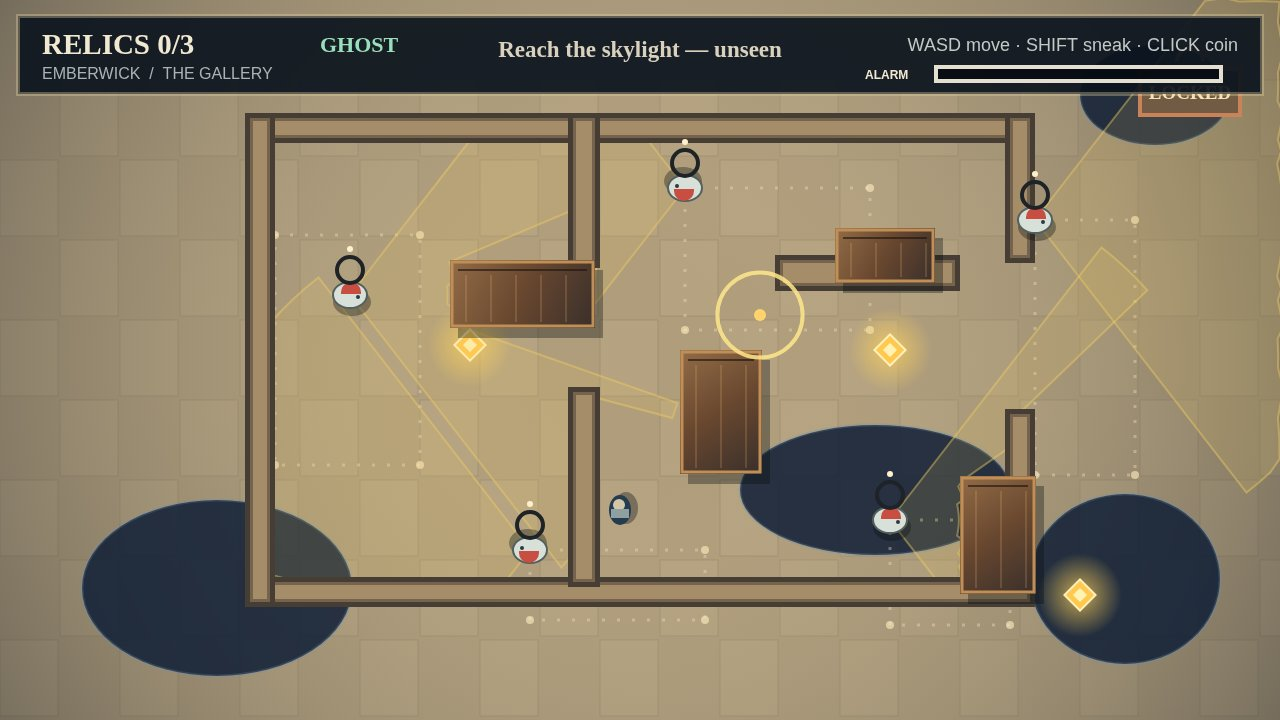
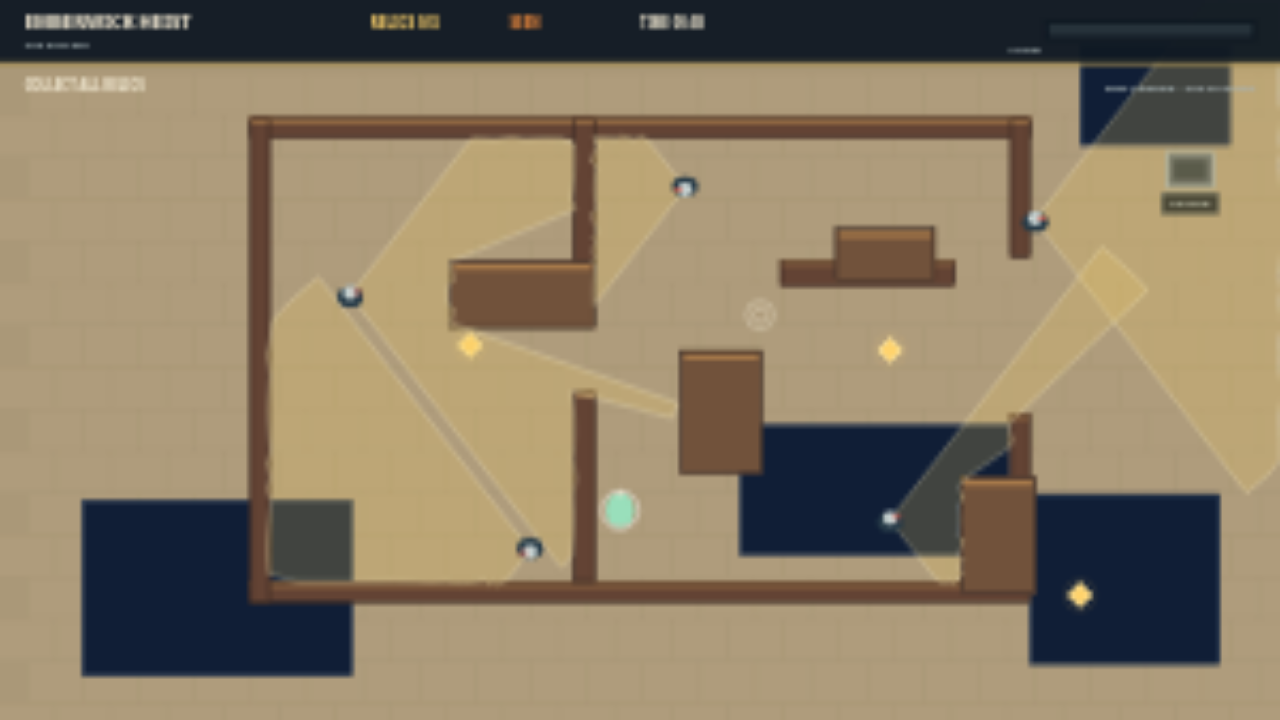
EMBERWICK HEIST round 3: exit visible, cones + player legible

diff --git a/game/src/render.js b/game/src/render.js
@@ -1,24 +1,44 @@
-import {W,H,C,T} from './config.js';
-import {conePoints} from './vision.js';
-const rect=(c,r,color,stroke=null,lw=1)=>{c.fillStyle=color;c.fillRect(r.x,r.y,r.w,r.h);if(stroke){c.strokeStyle=stroke;c.lineWidth=lw;c.strokeRect(r.x,r.y,r.w,r.h)}};
-function floor(c,w){c.fillStyle=C.floor;c.fillRect(0,0,W,H);for(let y=80;y<H;y+=80)for(let x=(y/80%2)*60;x<W;x+=120){c.fillStyle='rgba(239,218,178,.10)';c.fillRect(x,y,58,76);c.strokeStyle='rgba(45,38,31,.12)';c.strokeRect(x,y,58,76)}
-const vignette=c.createRadialGradient(640,360,100,640,360,820);vignette.addColorStop(0,'rgba(255,233,183,.06)');vignette.addColorStop(1,'rgba(12,20,33,.46)');c.fillStyle=vignette;c.fillRect(0,0,W,H);
-for(const s of w.shadows){c.fillStyle='rgba(12,27,53,.84)';c.beginPath();c.ellipse(s.x+s.w/2,s.y+s.h/2,s.w/2,s.h/2,0,0,Math.PI*2);c.fill();c.strokeStyle='rgba(106,146,183,.24)';c.lineWidth=3;c.stroke()}}
-function furniture(c,w){for(const r of w.walls){c.fillStyle='#463d34';c.fillRect(r.x-5,r.y-5,r.w+10,r.h+10);c.fillStyle='#75634d';c.fillRect(r.x,r.y,r.w,r.h);c.fillStyle='#a68d69';c.fillRect(r.x+3,r.y+3,Math.max(0,r.w-6),Math.max(0,r.h-6))}
-for(const r of w.cover){c.fillStyle='rgba(10,13,17,.35)';c.fillRect(r.x+8,r.y+10,r.w,r.h);const grad=c.createLinearGradient(r.x,r.y,r.x+r.w,r.y+r.h);grad.addColorStop(0,'#936c47');grad.addColorStop(.5,'#68472f');grad.addColorStop(1,'#392f2b');c.fillStyle=grad;c.fillRect(r.x,r.y,r.w,r.h);c.strokeStyle='#c08f57';c.lineWidth=3;c.strokeRect(r.x+2,r.y+2,r.w-4,r.h-4);c.strokeStyle='rgba(32,23,19,.65)';c.lineWidth=2;c.beginPath();c.moveTo(r.x+8,r.y+10);c.lineTo(r.x+r.w-8,r.y+10);c.stroke();for(let x=r.x+16;x<r.x+r.w-8;x+=25){c.strokeStyle='rgba(231,182,113,.2)';c.beginPath();c.moveTo(x,r.y+15);c.lineTo(x,r.y+r.h-6);c.stroke()}}}
-function routes(c,gs){c.save();c.setLineDash([3,12]);c.lineWidth=3;c.strokeStyle='rgba(245,230,193,.37)';for(const g of gs){c.beginPath();g.route.forEach(([x,y],i)=>i?c.lineTo(x,y):c.moveTo(x,y));c.closePath();c.stroke();for(const [x,y] of g.route){c.fillStyle='rgba(255,236,190,.62)';c.beginPath();c.arc(x,y,4,0,Math.PI*2);c.fill()}}c.restore()}
-function exitMark(c,w,state){const [x,y]=w.exit,locked=state.alert>0||w.relics.some(r=>!r.taken);c.save();c.translate(x,y);c.fillStyle=locked?'#5e4940':'#167d71';c.fillRect(-50,-23,100,46);c.strokeStyle=locked?'#c47658':'#90e3bf';c.lineWidth=4;c.strokeRect(-50,-23,100,46);c.fillStyle='#f8e8c2';c.font='bold 19px Georgia';c.textAlign='center';c.fillText(locked?'LOCKED':'SKYLIGHT',0,7);c.beginPath();c.arc(0,-31,13,Math.PI,Math.PI*2);c.stroke();c.restore()}
-function relic(c,r){if(r.taken)return;c.save();c.translate(r.x,r.y);const glow=c.createRadialGradient(0,0,2,0,0,42);glow.addColorStop(0,'rgba(255,210,92,.7)');glow.addColorStop(1,'rgba(255,210,92,0)');c.fillStyle=glow;c.beginPath();c.arc(0,0,42,0,Math.PI*2);c.fill();c.rotate(Math.PI/4);c.fillStyle='#ffc950';c.fillRect(-11,-11,22,22);c.fillStyle='#fff2b5';c.fillRect(-5,-5,10,10);c.strokeStyle='#fff1bd';c.lineWidth=2;c.strokeRect(-11,-11,22,22);c.restore()}
-function cones(c,gs,w){for(const g of gs){const pts=conePoints(g,w);c.beginPath();pts.forEach((p,i)=>i?c.lineTo(p.x,p.y):c.moveTo(p.x,p.y));c.closePath();const col=g.suspicion>.75?C.hot:g.suspicion>.35?C.warn:C.calm;c.fillStyle=col+(g.suspicion>.35?'33':'24');c.fill();c.strokeStyle=col+'70';c.lineWidth=2;c.stroke()}}
-function guard(c,g){c.save();c.translate(g.x,g.y);c.rotate(g.angle);c.fillStyle='rgba(12,16,18,.35)';c.beginPath();c.ellipse(2,7,19,14,0,0,Math.PI*2);c.fill();c.fillStyle='#d7e0d9';c.beginPath();c.ellipse(0,0,17,13,0,0,Math.PI*2);c.fill();c.strokeStyle='#53605f';c.lineWidth=2;c.stroke();c.fillStyle='#c94e42';c.beginPath();c.arc(1,-3,10,Math.PI,Math.PI*2);c.lineTo(11,-1);c.lineTo(-9,-1);c.fill();c.fillStyle='#293a45';c.beginPath();c.arc(8,2,2,0,Math.PI*2);c.fill();c.restore();
-c.save();c.strokeStyle='#1d2327';c.lineWidth=4;c.beginPath();c.arc(g.x,g.y-25,13,0,Math.PI*2);c.stroke();c.strokeStyle=g.suspicion>.75?C.hot:g.suspicion>.35?C.warn:C.mint;c.lineWidth=4;c.beginPath();c.arc(g.x,g.y-25,13,-Math.PI/2,-Math.PI/2+Math.PI*2*g.suspicion);c.stroke();c.restore();
-if(g.pause>0){c.fillStyle='#fff1cd';c.beginPath();c.arc(g.x,g.y-46,3,0,Math.PI*2);c.fill()}}
-function player(c,p,cover){c.save();c.globalAlpha=cover.alcove?0:cover.hidden?.42:1;c.translate(p.x,p.y);c.rotate(p.face);c.fillStyle='rgba(7,12,19,.35)';c.beginPath();c.ellipse(2,6,p.sneak?13:16,p.sneak?8:12,0,0,Math.PI*2);c.fill();c.fillStyle='#243b50';c.beginPath();c.ellipse(0,0,p.sneak?12:15,p.sneak?8:11,0,0,Math.PI*2);c.fill();c.fillStyle='#d4c7a9';c.beginPath();c.arc(5,-1,6,0,Math.PI*2);c.fill();c.fillStyle='#8ea0a2';c.fillRect(-8,-9,9,18);c.restore()}
-function noise(c,p){if(p.noise>0){c.strokeStyle='rgba(246,216,140,.65)';c.lineWidth=3;c.beginPath();c.arc(p.x,p.y,23+(1-p.noise)*100,0,Math.PI*2);c.stroke();c.strokeStyle='rgba(246,216,140,.25)';c.beginPath();c.arc(p.x,p.y,55+(1-p.noise)*140,0,Math.PI*2);c.stroke()}
-if(p.coin){c.strokeStyle='rgba(255,231,139,.85)';c.lineWidth=4;c.beginPath();c.arc(p.coin.x,p.coin.y,21+(4-p.coin.life)*24,0,Math.PI*2);c.stroke();c.fillStyle=C.gold;c.beginPath();c.arc(p.coin.x,p.coin.y,6,0,Math.PI*2);c.fill()}}
-function hud(c,world,p,state){c.fillStyle='rgba(11,19,29,.92)';c.fillRect(18,16,W-36,78);c.strokeStyle='rgba(232,211,165,.35)';c.strokeRect(18,16,W-36,78);c.fillStyle=C.cream;c.textAlign='left';c.font='bold 29px Georgia';c.fillText(`RELICS ${world.relics.filter(r=>r.taken).length}/3`,42,54);c.fillStyle=p.seen?'#ff9a77':C.mint;c.font='bold 22px Georgia';c.fillText(p.seen?'SEEN':'GHOST',320,52);c.fillStyle=C.muted;c.font='16px Arial';c.fillText(`EMBERWICK  /  ${world.name}`,42,79);
-c.fillStyle='#d9d1be';c.textAlign='center';c.font='bold 23px Georgia';c.fillText('Reach the skylight — unseen',640,57);c.fillStyle='#c3c9c6';c.textAlign='right';c.font='18px Arial';c.fillText('WASD move · SHIFT sneak · CLICK coin',1238,51);
-c.fillStyle='rgba(5,10,16,.8)';c.fillRect(936,67,285,14);c.fillStyle=state.alarm>.65?'#e94f45':state.alarm>.28?'#ee9842':'#70b89b';c.fillRect(936,67,285*state.alarm,14);c.strokeStyle='#e4dfd1';c.strokeRect(936,67,285,14);c.fillStyle=C.cream;c.textAlign='left';c.font='bold 12px Arial';c.fillText(state.alert>0?`ALERT · EXIT LOCK ${state.alert.toFixed(1)}s`:'ALARM',865,79)}
-function card(c,state,p,world){if(state.won){c.fillStyle='rgba(8,15,25,.82)';c.fillRect(0,0,W,H);c.fillStyle='#f3d78d';c.textAlign='center';c.font='bold 64px Georgia';c.fillText(p.seen?'SHADOW — seen':'GHOST — unseen',640,270);c.fillStyle=C.cream;c.font='30px Georgia';c.fillText(`EMBERWICK HEIST  ·  ${world.name}`,640,326);c.font='24px Arial';c.fillText(`TIME  ${Math.floor(state.time/60)}:${String(Math.floor(state.time%60)).padStart(2,'0')}     RELICS  3/3`,640,390);c.fillStyle='#ffd36c';c.font='54px Georgia';c.fillText(p.seen?'★  ★  ☆':'★  ★  ★',640,468);c.fillStyle='#d5d4ce';c.font='19px Arial';c.fillText(state.next===undefined?'Heist complete':'Click or press ENTER to begin the next room',640,530)}if(state.alert>0){c.fillStyle='rgba(185,37,35,.18)';c.fillRect(0,94,W,H-94);c.textAlign='center';c.fillStyle='#ff5c4d';c.font='bold 25px Arial';c.fillText('ALERT — BREAK THE SIGHTLINE',640,132)}}
-export function draw(ctx,canvas,world,p,gs,state,coverState={hidden:false}){const dpr=Math.min(2,devicePixelRatio||1),scale=Math.min(innerWidth/W,innerHeight/H);canvas.width=Math.round(W*scale*dpr);canvas.height=Math.round(H*scale*dpr);canvas.style.width=`${W*scale}px`;canvas.style.height=`${H*scale}px`;canvas.style.position='absolute';canvas.style.left=`${(innerWidth-W*scale)/2}px`;canvas.style.top=`${(innerHeight-H*scale)/2}px`;ctx.setTransform(canvas.width/W,0,0,canvas.height/H,0,0);
-floor(ctx,world);routes(ctx,gs);exitMark(ctx,world,state);for(const r of world.relics)relic(ctx,r);cones(ctx,gs,world);furniture(ctx,world);noise(ctx,p);gs.forEach(g=>guard(ctx,g));player(ctx,p,coverState.hidden);hud(ctx,world,p,state);card(ctx,state,p,world)}
+import {C,W,H} from './config.js';
+import {conePoints,shadowed,covered} from './vision.js';
+
+const poly=(ctx,pts)=>{ctx.beginPath();ctx.moveTo(pts[0].x,pts[0].y);for(let i=1;i<pts.length;i++)ctx.lineTo(pts[i].x,pts[i].y);ctx.closePath()};
+const rect=(ctx,r,color)=>{ctx.fillStyle=color;ctx.fillRect(r.x,r.y,r.w,r.h)};
+const text=(ctx,value,x,y,size=14,color=C.cream,align='left',weight='600')=>{ctx.font=`${weight} ${size}px system-ui, sans-serif`;ctx.textAlign=align;ctx.textBaseline='middle';ctx.fillStyle=color;ctx.fillText(value,x,y)};
+
+export function draw(ctx,canvas,world,p,guards,state,coverState){
+  ctx.setTransform(canvas.width/W,0,0,canvas.height/H,0,0);
+  ctx.clearRect(0,0,W,H);
+  ctx.fillStyle=C.floor;ctx.fillRect(0,0,W,H);
+  ctx.globalAlpha=.18;ctx.fillStyle=C.tile;
+  for(let y=74;y<H;y+=42)for(let x=0;x<W;x+=56)ctx.fillRect(x+(Math.floor(y/42)%2)*28,y,54,40);
+  ctx.globalAlpha=1;
+
+  for(const s of world.shadows){ctx.fillStyle=C.shadow;ctx.fillRect(s.x,s.y,s.w,s.h);ctx.strokeStyle=C.shadowEdge;ctx.lineWidth=2;ctx.strokeRect(s.x+1,s.y+1,s.w-2,s.h-2)}
+  for(const r of world.walls){ctx.fillStyle=C.wood;ctx.fillRect(r.x,r.y,r.w,r.h);ctx.fillStyle=C.woodHi;ctx.fillRect(r.x,r.y,r.w,Math.min(5,r.h));ctx.strokeStyle='#392a25';ctx.lineWidth=2;ctx.strokeRect(r.x+1,r.y+1,r.w-2,r.h-2)}
+  for(const r of world.cover){ctx.fillStyle='#71523b';ctx.fillRect(r.x,r.y,r.w,r.h);ctx.fillStyle='#a6794a';ctx.fillRect(r.x+4,r.y+4,r.w-8,6);ctx.strokeStyle='#382d29';ctx.lineWidth=2;ctx.strokeRect(r.x+1,r.y+1,r.w-2,r.h-2)}
+
+  const ex=world.exit[0],ey=world.exit[1],open=world.relics.every(r=>r.taken);
+  ctx.save();ctx.translate(ex,ey);ctx.fillStyle=open?'#b9e6cd':'#59636a';ctx.fillRect(-23,-17,46,34);ctx.strokeStyle=open?'#f1e8d2':'#a8b4b6';ctx.lineWidth=3;ctx.strokeRect(-23,-17,46,34);ctx.fillStyle=open?'#263e3b':'#303b43';ctx.fillRect(-16,-10,32,20);ctx.restore();
+  ctx.font='700 10px system-ui, sans-serif';const exitLabel=open?'SKYLIGHT':'LOCKED',tw=ctx.measureText(exitLabel).width+18;ctx.fillStyle='rgba(16,25,35,.92)';ctx.fillRect(ex-tw/2,ey+23,tw,21);ctx.strokeStyle=open?'#99dfbb':'#75838a';ctx.lineWidth=1;ctx.strokeRect(ex-tw/2+.5,ey+23.5,tw-1,20);text(ctx,exitLabel,ex,ey+34,10,open?C.mint:C.muted,'center','700');
+
+  for(const r of world.relics)if(!r.taken){ctx.save();ctx.translate(r.x,r.y);ctx.rotate(Math.PI/4);ctx.fillStyle=C.gold;ctx.fillRect(-9,-9,18,18);ctx.strokeStyle='#fff0bb';ctx.lineWidth=2;ctx.strokeRect(-8,-8,16,16);ctx.restore();ctx.beginPath();ctx.arc(r.x,r.y,16,0,Math.PI*2);ctx.strokeStyle='rgba(255,211,108,.38)';ctx.lineWidth=1;ctx.stroke()}
+
+  for(const g of guards){const pts=conePoints(g,world);poly(ctx,pts);const alpha=g.mode==='alert'?.38:g.suspicion>.18?.30:.22;ctx.fillStyle=g.mode==='alert'?`rgba(239,69,69,${alpha})`:g.suspicion>.18?`rgba(241,139,61,${alpha})`:`rgba(242,206,98,${alpha})`;ctx.fill();ctx.strokeStyle='rgba(255,244,210,.5)';ctx.lineWidth=2;ctx.stroke();
+    if(g.suspicion>.08){ctx.beginPath();ctx.arc(g.x,g.y,22,-Math.PI/2,-Math.PI/2+Math.PI*2*g.suspicion);ctx.strokeStyle=g.mode==='alert'?C.hot:C.warn;ctx.lineWidth=3;ctx.stroke()}
+    ctx.save();ctx.translate(g.x,g.y);ctx.rotate(g.angle);ctx.fillStyle='#273b48';ctx.beginPath();ctx.ellipse(0,2,13,10,0,0,Math.PI*2);ctx.fill();ctx.fillStyle=C.uniform;ctx.beginPath();ctx.arc(0,-2,7,0,Math.PI*2);ctx.fill();ctx.fillStyle=C.red;ctx.fillRect(3,-4,8,3);ctx.restore();
+  }
+  if(p.coin){ctx.beginPath();ctx.arc(p.coin.x,p.coin.y,14,0,Math.PI*2);ctx.strokeStyle='rgba(241,232,210,.75)';ctx.lineWidth=2;ctx.stroke();ctx.beginPath();ctx.arc(p.coin.x,p.coin.y,7,0,Math.PI*2);ctx.stroke()}
+  const pr=(p.r||12)*1.4;ctx.save();ctx.translate(p.x,p.y);ctx.rotate(p.face||0);ctx.fillStyle=p.seen?C.hot:C.mint;ctx.beginPath();ctx.ellipse(0,0,pr,pr*.82,0,0,Math.PI*2);ctx.fill();ctx.strokeStyle='rgba(255,255,255,.9)';ctx.lineWidth=2;ctx.beginPath();ctx.arc(0,0,pr+2,0,Math.PI*2);ctx.stroke();ctx.fillStyle='#f1e8d2';ctx.beginPath();ctx.moveTo(pr+4,0);ctx.lineTo(pr-2,-4);ctx.lineTo(pr-2,4);ctx.closePath();ctx.fill();ctx.restore();
+
+  ctx.fillStyle='rgba(16,25,35,.96)';ctx.fillRect(0,0,W,64);ctx.fillStyle=C.gold;ctx.fillRect(0,62,W,2);
+  text(ctx,'EMBERWICK HEIST',24,22,18,C.cream,'left','800');text(ctx,world.name,24,46,10,C.muted,'left','700');
+  text(ctx,`RELICS ${world.relics.filter(r=>r.taken).length}/3`,370,25,13,C.gold,'left','800');
+  const hidden=shadowed(p,world)||covered(p,world)||coverState?.hidden;
+  text(ctx,hidden?'GHOST':'SEEN',510,25,12,hidden?C.mint:C.warn,'left','800');
+  text(ctx,`TIME ${Math.floor(state.time/60).toString().padStart(2,'0')}:${Math.floor(state.time%60).toString().padStart(2,'0')}`,640,25,12,C.cream,'left','700');
+  text(ctx,open?'REACH THE SKYLIGHT':'COLLECT ALL RELICS',24,86,12,C.cream,'left','700');
+  text(ctx,`${open?'EXIT OPEN':'EXIT LOCKED'} · ${world.name}`,W-24,86,11,open?C.mint:C.muted,'right','700');
+  ctx.fillStyle='rgba(16,25,35,.88)';ctx.fillRect(W-235,20,211,20);ctx.fillStyle='#26323a';ctx.fillRect(W-231,24,203,12);ctx.fillStyle=state.alarm>.55?C.hot:C.warn;ctx.fillRect(W-231,24,203*Math.max(0,Math.min(1,state.alarm)),12);text(ctx,'ALARM',W-240,50,9,C.muted,'right','700');
+  if(state.alert>0){ctx.fillStyle='rgba(124,34,35,.92)';ctx.fillRect(W/2-135,73,270,33);ctx.strokeStyle='#ff8b6f';ctx.lineWidth=1;ctx.strokeRect(W/2-134.5,73.5,269,32);text(ctx,'GUARDS ALERTED',W/2,90,13,'#fff0df','center','800')}
+  if(state.won){ctx.fillStyle='rgba(8,14,20,.76)';ctx.fillRect(0,0,W,H);ctx.fillStyle='rgba(16,25,35,.97)';ctx.fillRect(W/2-245,H/2-114,490,228);ctx.strokeStyle=C.gold;ctx.lineWidth=2;ctx.strokeRect(W/2-244,H/2-113,488,226);text(ctx,'HEIST COMPLETE',W/2,H/2-51,30,C.gold,'center','800');text(ctx,'THE SKYLIGHT IS YOURS',W/2,H/2-7,14,C.cream,'center','700');text(ctx,'PRESS ENTER TO PLAY AGAIN',W/2,H/2+61,12,C.mint,'center','700')}
+}

diff --git a/game/src/world.js b/game/src/world.js
@@ -1,9 +1,29 @@
-const patrols=[[[275,235],[420,235],[420,465],[275,465]],[[685,188],[870,188],[870,330],[685,330]],[[1035,220],[1135,220],[1135,475],[1035,475]],[[530,550],[705,550],[705,620],[530,620]],[[890,520],[1010,520],[1010,625],[890,625]]];
-const guards=patrols.map((route,i)=>({route,angle:i%2?Math.PI:0}));
-const room=(name,start,relics,exit,walls,shadows,cover)=>({name,start,relics,exit,walls,shadows,cover,guards});
-export const LEVELS=[
-room('THE GALLERY',[98,590],[[470,345],[890,350],[1080,595]],[1190,92],[[250,118,780,20],[250,582,780,20],[250,118,20,484],[1010,118,20,140],[1010,414,20,168],[573,118,22,145],[573,392,22,190],[780,260,175,26]],[[82,500,270,176],[740,425,270,130],[1030,494,190,170],[1080,45,150,100]],[[450,260,145,68],[680,350,82,124],[835,228,100,55],[960,476,76,118]]),
-room('THE WINTER ROOM',[95,610],[[350,170],[705,525],[1080,180]],[1190,615],[[220,112,850,18],[220,590,850,18],[220,112,18,496],[1052,112,18,496],[450,112,22,190],[450,390,22,218],[800,112,22,215],[800,420,22,190],[570,330,280,22]],[[80,525,300,180],[470,125,265,160],[850,470,200,130],[1090,555,145,100]],[[285,280,120,66],[550,445,105,72],[890,250,110,72],[980,510,60,60]]),
-room('THE CLOCK VAULT',[90,355],[[335,360],[650,205],[990,360]],[1190,92],[[210,110,860,18],[210,592,860,18],[210,110,18,500],[1052,110,18,500],[385,110,22,180],[385,400,22,210],[690,110,22,120],[690,315,22,295],[890,230,22,230]],[[75,276,260,175],[425,426,245,150],[820,115,245,105],[1000,462,205,172],[1080,45,150,100]],[[275,240,78,85],[490,295,145,64],[765,445,100,70],[935,288,70,116]])
+const patrols=[
+  [[275,235],[420,235],[420,465],[275,465]],
+  [[685,188],[870,188],[870,330],[685,330]],
+  [[1035,220],[1135,220],[1135,475],[1035,475]],
+  [[530,550],[705,550],[705,620],[530,620]],
+  [[890,520],[1010,520],[1010,625],[890,625]]
 ];
-export function makeWorld(index=0){const d=LEVELS[index%LEVELS.length];return {...d,relics:d.relics.map(([x,y])=>({x,y,taken:false})),walls:d.walls.map(([x,y,w,h])=>({x,y,w,h})),cover:d.cover.map(([x,y,w,h])=>({x,y,w,h})),shadows:d.shadows.map(([x,y,w,h])=>({x,y,w,h}))}}
+const guards=patrols.map((route,index)=>({route,angle:index%2?Math.PI:0}));
+const room=(name,start,relics,exit,walls,shadows,cover)=>({name,start,relics,exit,walls,shadows,cover,guards});
+const LEVELS=[
+  room('THE GALLERY',[98,590],[[470,345],[890,350],[1080,595]],[1190,170],
+    [[250,118,780,20],[250,582,780,20],[250,118,20,484],[1010,118,20,140],[1010,414,20,168],[573,118,22,145],[573,392,22,190],[780,260,175,26]],
+    [[82,500,270,176],[740,425,270,130],[1030,494,190,170],[1080,45,150,100]],
+    [[450,260,145,68],[680,350,82,124],[835,228,100,55],[960,476,76,118]]),
+  room('THE WINTER ROOM',[95,610],[[350,170],[705,525],[1080,180]],[1190,615],
+    [[220,112,850,18],[220,590,850,18],[220,112,18,496],[1052,112,18,496],[450,112,22,190],[450,390,22,218],[800,112,22,215],[800,420,22,190],[570,330,280,22]],
+    [[80,525,300,180],[470,125,265,160],[850,470,200,130],[1090,555,145,100]],
+    [[285,280,120,66],[550,445,105,72],[890,250,110,72],[980,510,60,60]]),
+  room('THE CLOCK VAULT',[90,355],[[335,360],[650,205],[990,360]],[1190,170],
+    [[210,110,860,18],[210,592,860,18],[210,110,18,500],[1052,110,18,500],[385,110,22,180],[385,400,22,210],[690,110,22,120],[690,315,22,295],[890,230,22,230]],
+    [[75,276,260,175],[425,426,245,150],[820,115,245,105],[1000,462,205,172],[1080,45,150,100]],
+    [[275,240,78,85],[490,295,145,64],[765,445,100,70],[935,288,70,116]])
+];
+const rects=items=>items.map(([x,y,w,h])=>({x,y,w,h}));
+export function makeWorld(index=0){const src=LEVELS[index%3];return {
+  name:src.name,start:[...src.start],relics:src.relics.map(([x,y])=>({x,y,taken:false})),exit:[...src.exit],
+  walls:rects(src.walls),shadows:rects(src.shadows),cover:rects(src.cover),
+  guards:src.guards.map(g=>({route:g.route.map(([x,y])=>[x,y]),angle:g.angle}))
+};}
